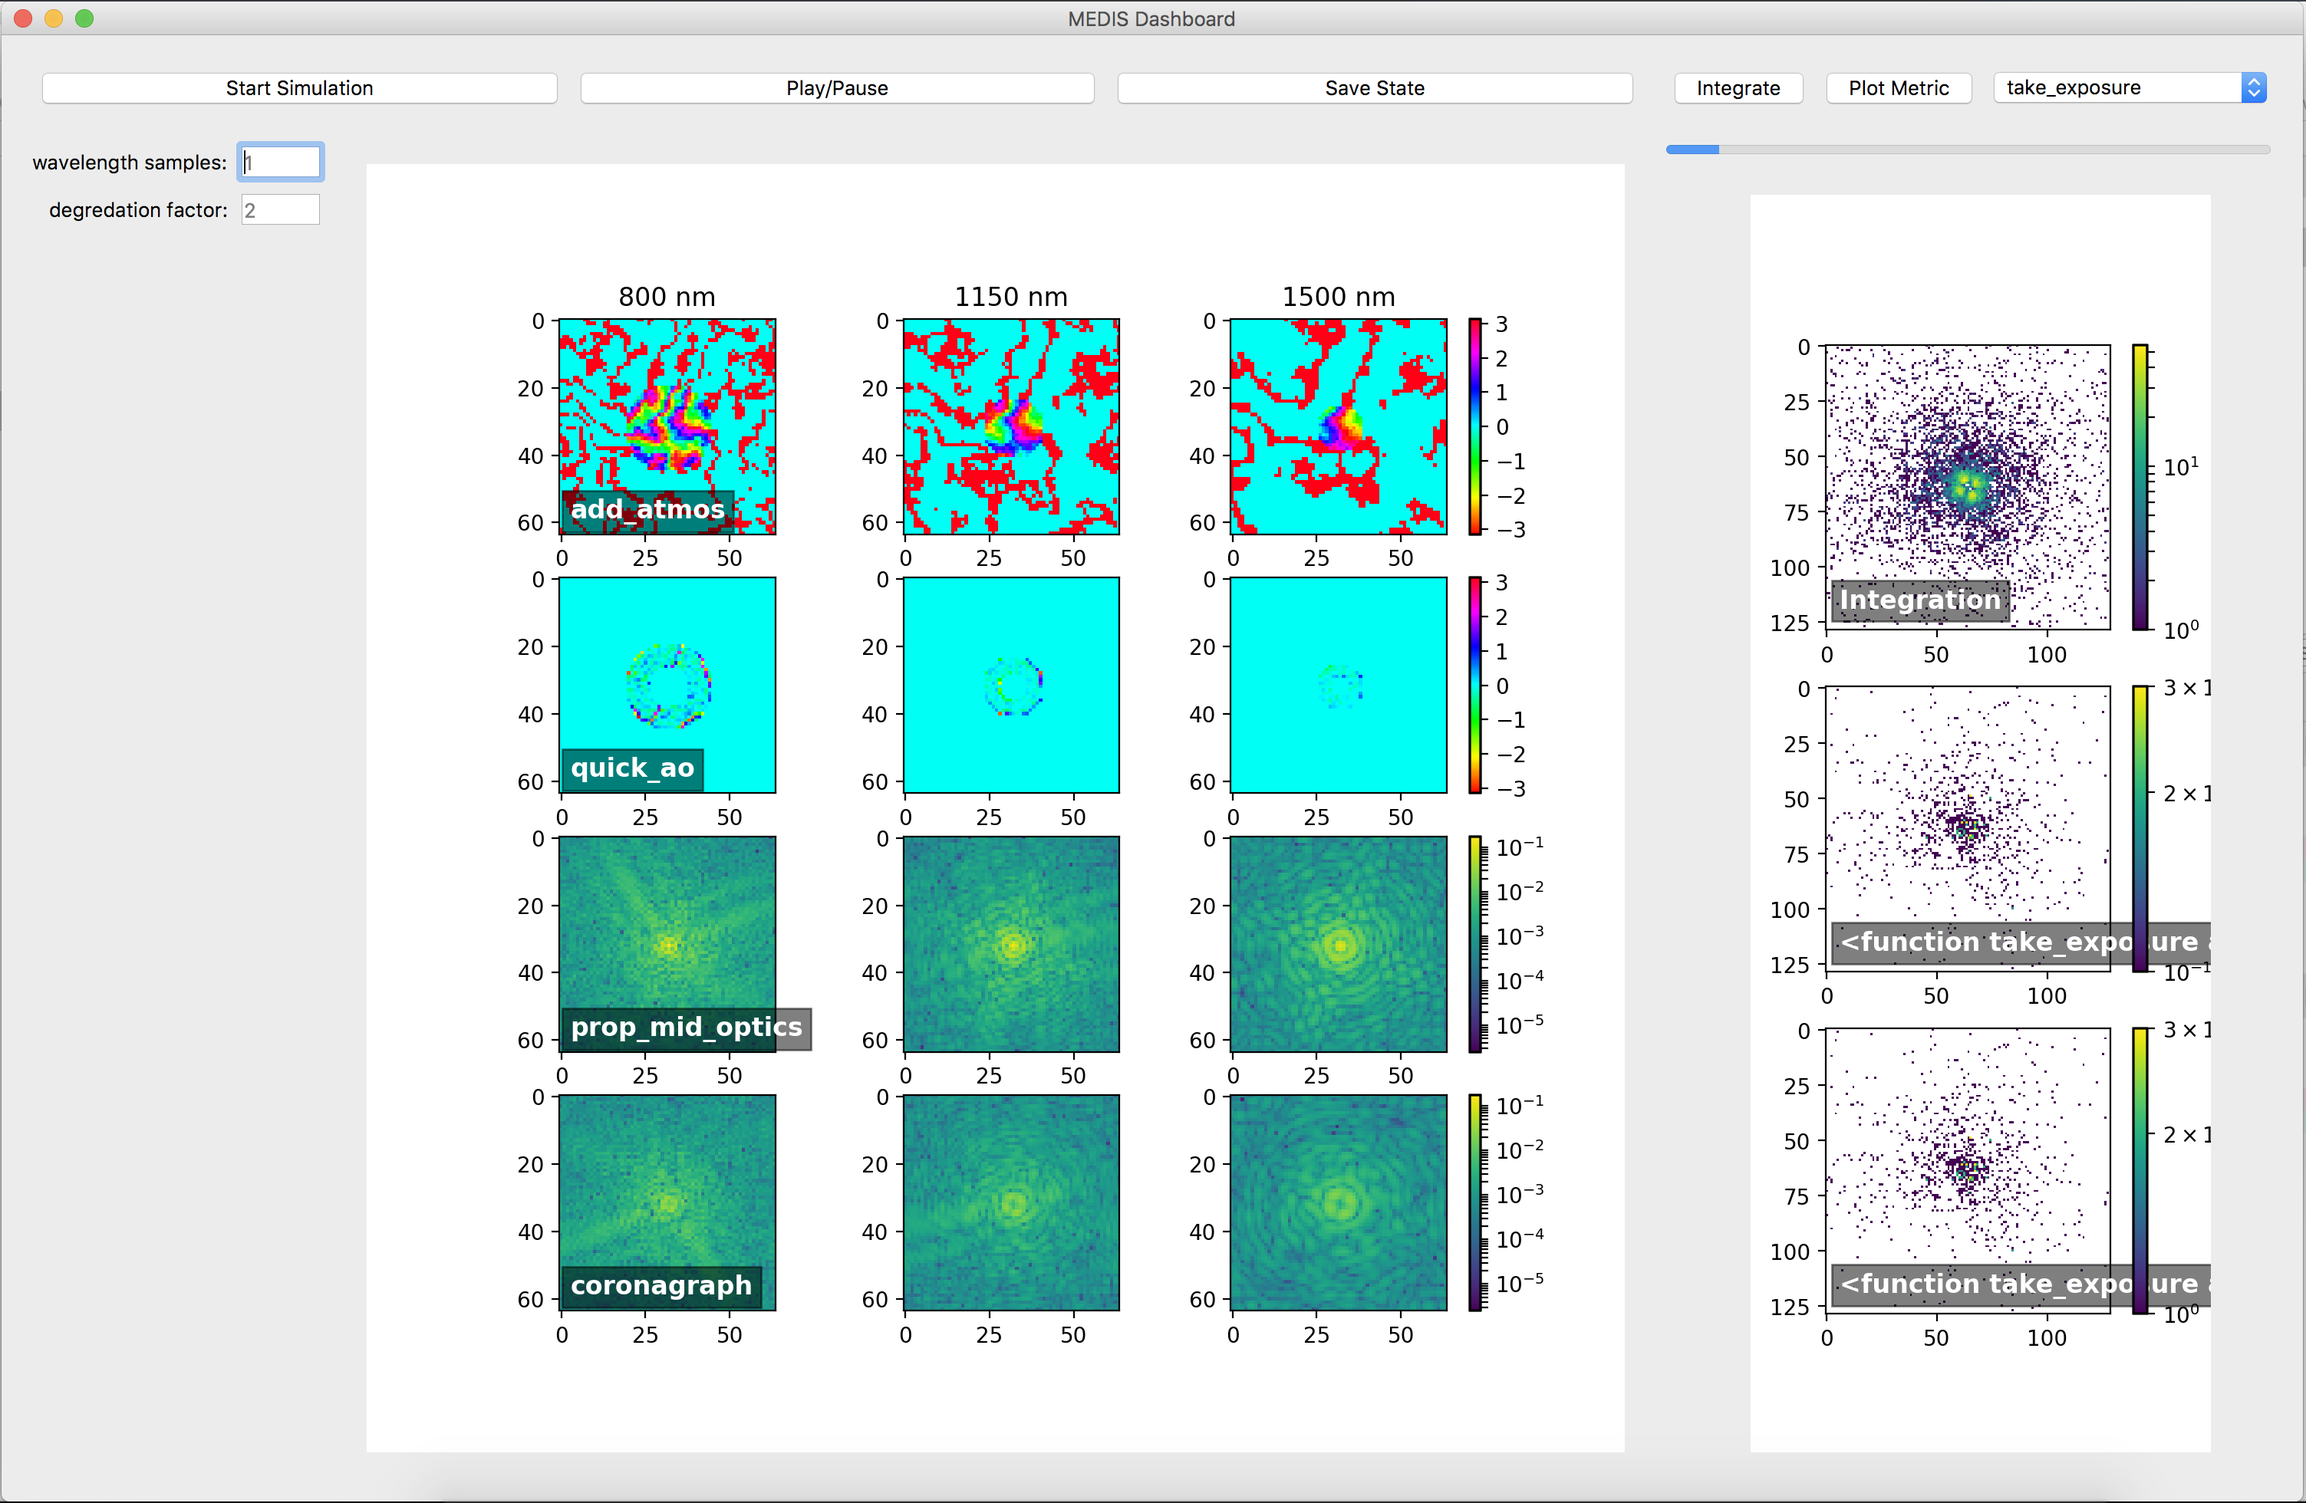
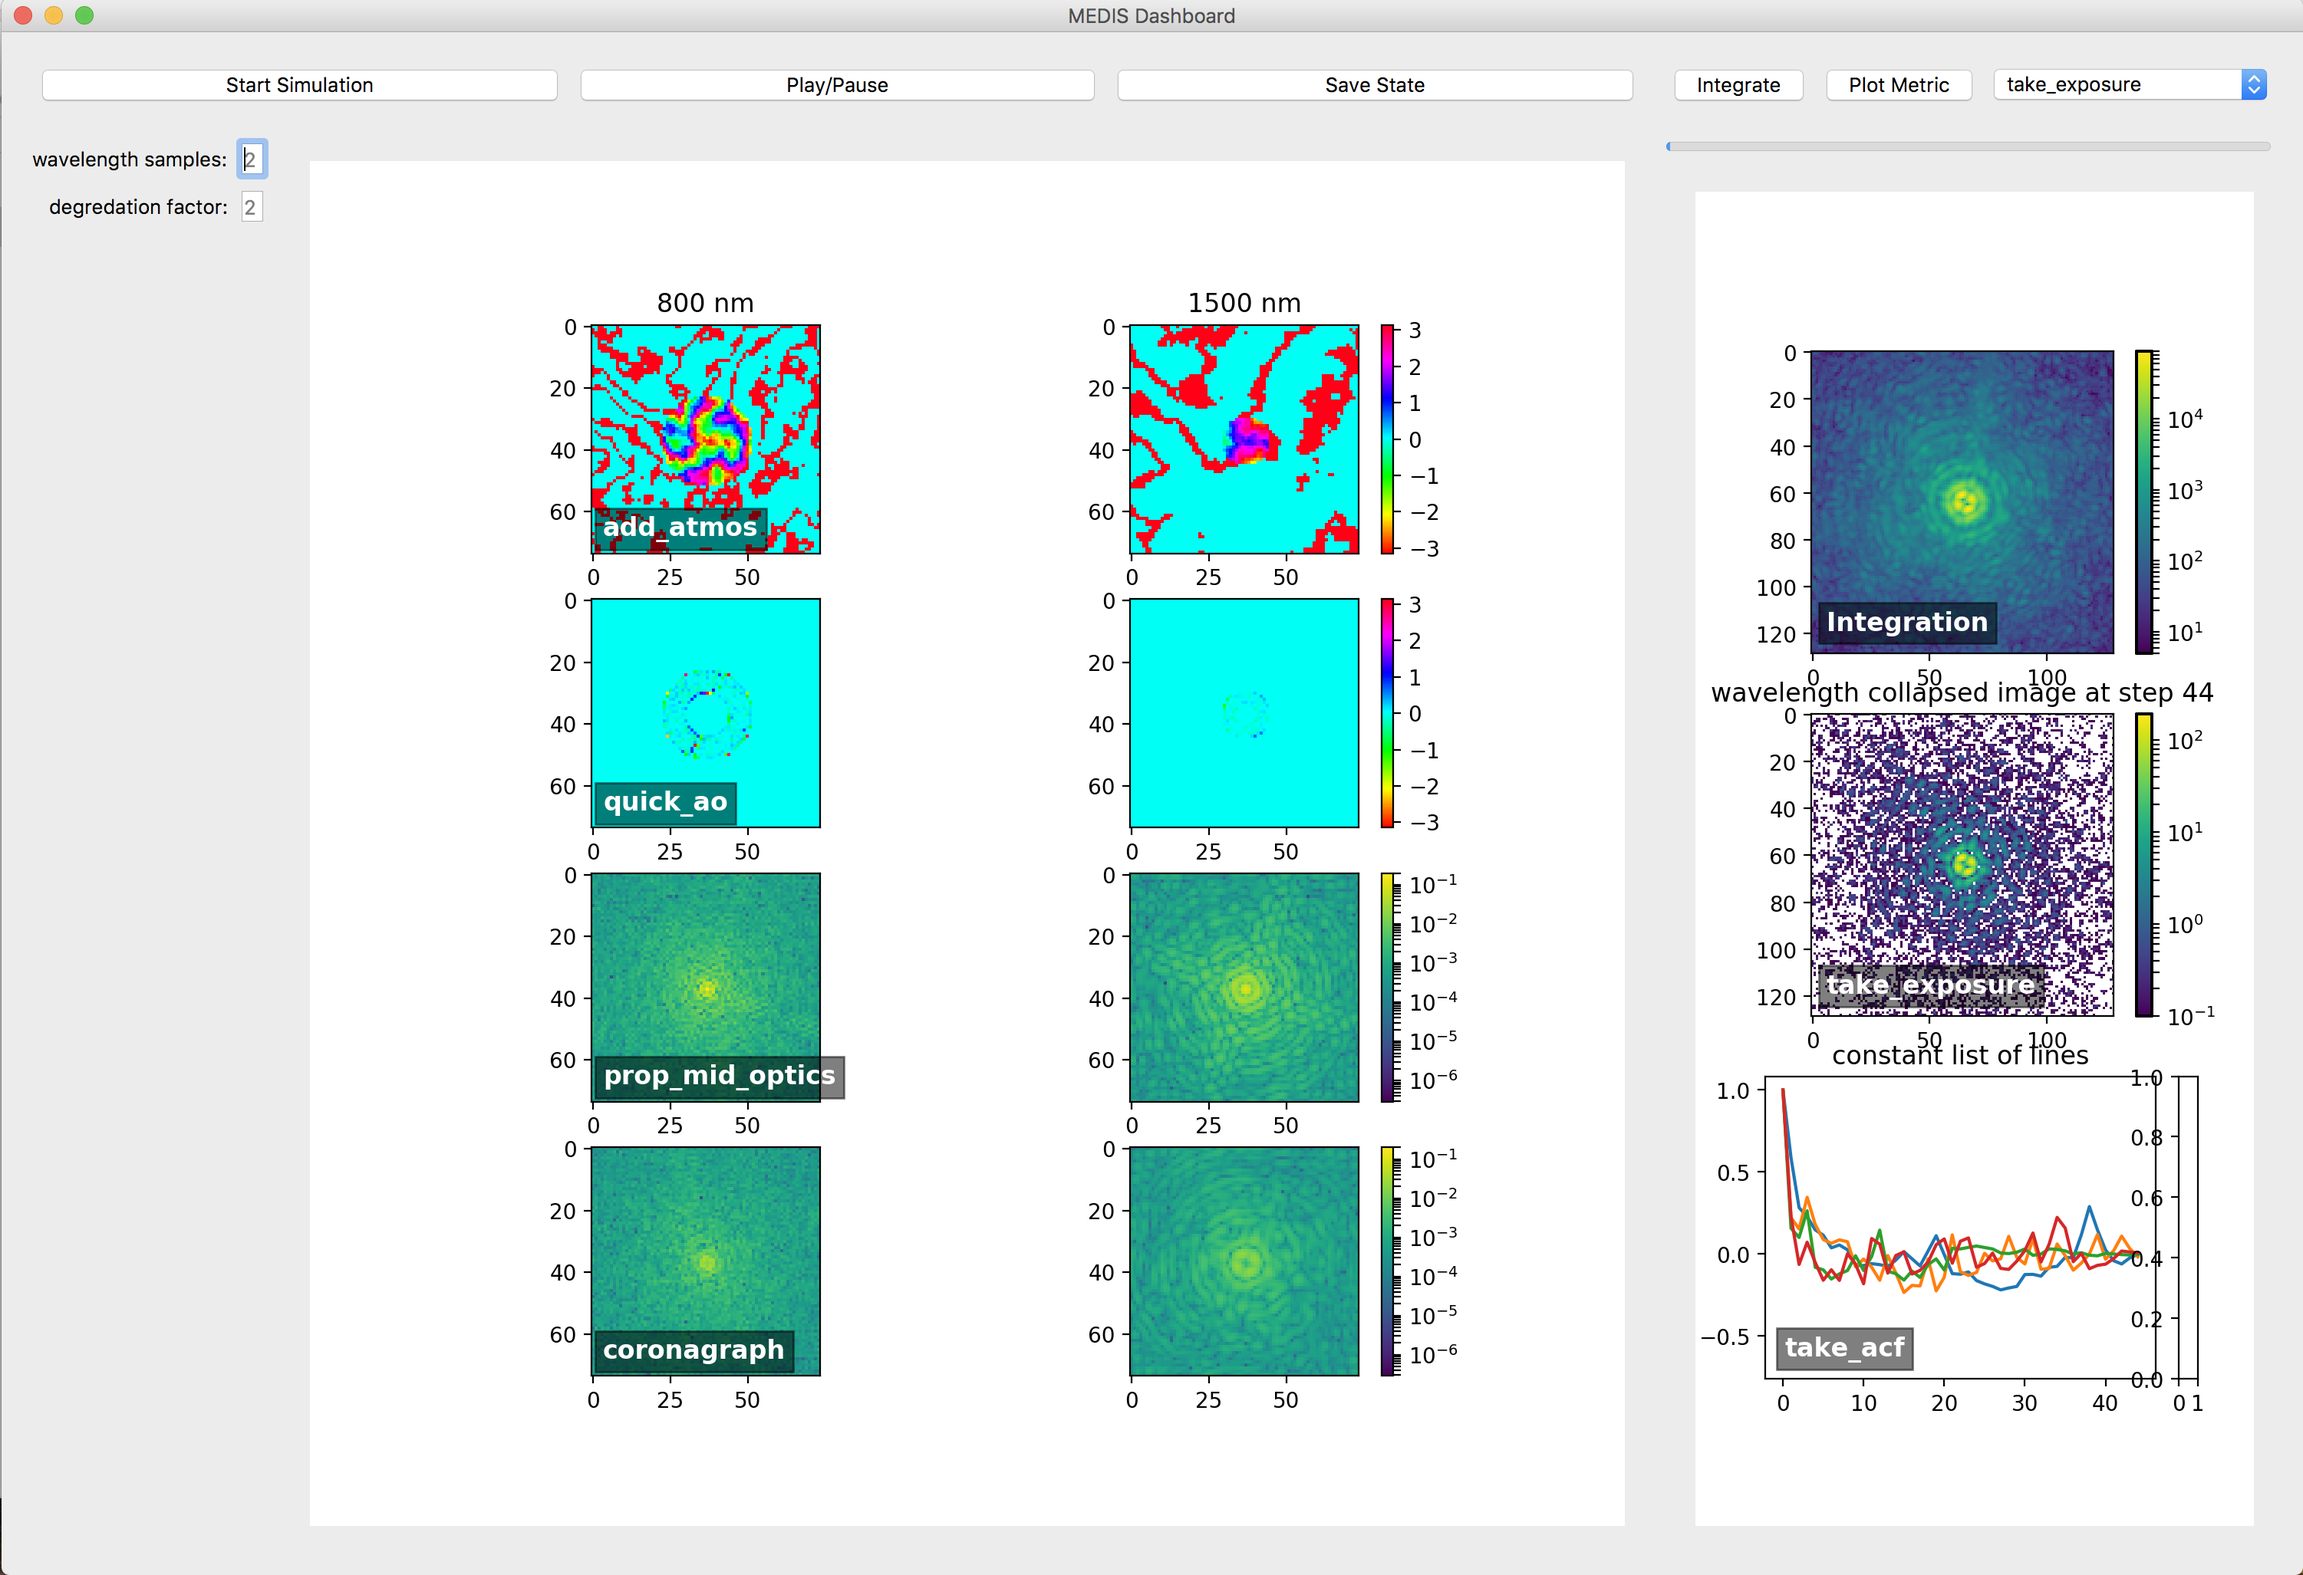
GUI now takes and plots functions with a variety of output formats to analyse the 4D cube of photon data at the detector. See GUI screenshots in examples

diff --git a/medis/Dashboard/architecture.py b/medis/Dashboard/architecture.py
@@ -1,3 +1,4 @@
+import sys
 import numpy as np
 
 from matplotlib.colors import LogNorm, SymLogNorm
@@ -5,6 +6,7 @@ from matplotlib.backends.backend_qt5agg import FigureCanvasQTAgg
 from matplotlib.figure import Figure
 from matplotlib import gridspec
 from mpl_toolkits.axes_grid1 import make_axes_locatable
+from matplotlib.image import AxesImage
 
 from functools import partial
 
@@ -24,7 +26,7 @@ class MatplotlibWidget(QWidget):
         super(MatplotlibWidget, self).__init__(parent)
 
         self.nrows, self.ncols = nrows, ncols
-        self.figure = Figure(figsize=(3*ncols,3*nrows))
+        self.figure = Figure(figsize=(5*ncols,3*nrows))
         self.canvas = FigureCanvasQTAgg(self.figure)
 
         gs = gridspec.GridSpec(self.nrows, self.ncols)
@@ -42,6 +44,8 @@ class MatplotlibWidget(QWidget):
         self.layoutVertical = QFormLayout(self)
         self.layoutVertical.addWidget(self.canvas)
 
+        self.ims = np.empty((self.nrows, self.ncols), dtype=AxesImage)
+
     def add_Efield_annotations(self):
         wsamples = np.linspace(ap.band[0], ap.band[1], ap.nwsamp).astype(int)
         for c in range(self.ncols):
@@ -57,7 +61,7 @@ class MatplotlibWidget(QWidget):
                              fontweight='bold', color='w',
                              fontsize=12, bbox=props)
         for r in range(self.nrows-1):
-            self.axes[r+1, 0].text(0.05, 0.075, sp.metric_funcs[r], transform=self.axes[r+1, 0].transAxes,
+            self.axes[r+1, 0].text(0.05, 0.075, sp.metric_funcs[r].__name__, transform=self.axes[r+1, 0].transAxes,
                                  fontweight='bold', color='w',
                                  fontsize=12, bbox=props)
 
@@ -205,10 +209,15 @@ class MyWindow(QWidget):
         for x in range(self.rows):
             for y in range(self.cols):
                 # self.EmapsGrid.axes[x, y].cla()
-                im = self.EmapsGrid.axes[x, y].imshow(gui_images[x,y,0,::2,::2], norm=norm[x],
+                try:
+                    self.EmapsGrid.ims[x,y].remove()
+                except AttributeError:
+                    True
+                self.EmapsGrid.ims[x,y] = self.EmapsGrid.axes[x, y].imshow(gui_images[x,y,0,::2,::2], norm=norm[x],
                                                      vmin=vmin[x], vmax=vmax[x], cmap=cmap[x])
 
-            self.EmapsGrid.figure.colorbar(im, cax=self.EmapsGrid.cax[x], orientation='vertical')
+
+            self.EmapsGrid.figure.colorbar(self.EmapsGrid.ims[x,-1], cax=self.EmapsGrid.cax[x], orientation='vertical')
 
         self.EmapsGrid.canvas.draw()
         del gui_images
@@ -227,17 +236,73 @@ class MyWindow(QWidget):
         self.EfieldsThread.sct.integration += spectralcube
         self.EfieldsThread.sct.obs_sequence[it] = spectralcube
 
+        try:
+            self.metricsGrid.ims[0,0].remove()
+        except AttributeError:
+            True
+
         # self.metricsGrid.axes[0,0].cla()
-        im = self.metricsGrid.axes[0,0].imshow(np.sum(self.EfieldsThread.sct.integration, axis=0), norm=LogNorm())
-        self.metricsGrid.figure.colorbar(im, cax=self.metricsGrid.cax[0], orientation='vertical')
+        print(type(self.metricsGrid.ims[0,0]))
+        self.metricsGrid.ims[0,0] = self.metricsGrid.axes[0,0].imshow(np.sum(self.EfieldsThread.sct.integration,
+                                                                             axis=0),
+                                                                      norm=LogNorm())
+        self.metricsGrid.figure.colorbar(self.metricsGrid.ims[0,0], cax=self.metricsGrid.cax[0],
+                                         orientation='vertical')
 
         for r, (func, args) in enumerate(zip(sp.metric_funcs, sp.metric_args)):
+            import traceback
             # self.metricsGrid.axes[r+1,0].cla()
-            f = partial(func, args)
-            metric = f(self.EfieldsThread.sct.obs_sequence[:it])
+            from medis.Utils.misc import dprint
+            dprint((type(self.metricsGrid.ims[r + 1, 0]), type(self.metricsGrid.ims[r + 1, 0]) == list))
+            try:
+                if type(self.metricsGrid.ims[r+1, 0]) == list:
+                    for im in self.metricsGrid.ims[r + 1, 0]:
+                        im[0].remove()
+                    # self.metricsGrid.axes[r + 1, 0].cla()
+                    # self.metricsGrid.add_metric_annotations()
+                else:
+                    self.metricsGrid.ims[r+1, 0].remove()
+            except (KeyboardInterrupt, SystemExit):
+                raise
+            except:
+                traceback.print_exc()
+            dprint(type(self.metricsGrid.ims[r + 1, 0]) == list)
 
-            im = self.metricsGrid.axes[r+1, 0].imshow(metric[it-1, 0], norm=LogNorm())
-            self.metricsGrid.figure.colorbar(im, cax=self.metricsGrid.cax[r+1], orientation='vertical')
+            metric = func(self.EfieldsThread.sct.obs_sequence[:it], args)
+
+            dims = len(np.shape(metric))
+            if dims == 4:
+                self.metricsGrid.ims[r+1,0] = self.metricsGrid.axes[r+1, 0].imshow(np.sum(metric[it-1], axis=0), norm=LogNorm())
+                self.metricsGrid.figure.colorbar(self.metricsGrid.ims[r+1,0], cax=self.metricsGrid.cax[r+1],
+                                                 orientation='vertical')
+                self.metricsGrid.axes[r + 1, 0].set_title(f'wavelength collapsed image at step {it-1}')
+            elif dims == 3 and metric.shape[0] == ap.nwsamp:
+                self.metricsGrid.ims[r+1,0] = self.metricsGrid.axes[r+1, 0].imshow(np.sum(metric, axis=0), norm=LogNorm())
+                self.metricsGrid.figure.colorbar(self.metricsGrid.ims[r+1,0], cax=self.metricsGrid.cax[r+1],
+                                                 orientation='vertical')
+                self.metricsGrid.axes[r + 1, 0].set_title(f'wavelength collapsed image')
+            elif dims == 3 and metric.shape[0] == ap.numframes:
+                self.metricsGrid.ims[r+1,0] = self.metricsGrid.axes[r+1, 0].imshow(metric[it-1], norm=LogNorm())
+                self.metricsGrid.figure.colorbar(self.metricsGrid.ims[r+1,0], cax=self.metricsGrid.cax[r+1],
+                                                 orientation='vertical')
+                self.metricsGrid.axes[r + 1, 0].set_title(f'monochromatic image at step {it - 1}')
+            elif dims == 2 and type(metric) is np.ndarray:
+                self.metricsGrid.ims[r+1, 0] = self.metricsGrid.axes[r+1, 0].imshow(metric, norm=LogNorm())
+                self.metricsGrid.figure.colorbar(self.metricsGrid.ims[r+1,0], cax=self.metricsGrid.cax[r+1],
+                                                 orientation='vertical')
+                self.metricsGrid.axes[r + 1, 0].set_title(f'constant monochromatic image')
+            elif dims == 2 and type(metric) is list:
+                self.metricsGrid.ims[r + 1, 0] = []
+                colors = ['#1f77b4', '#ff7f0e', '#2ca02c', '#d62728',
+                              '#9467bd', '#8c564b', '#e377c2', '#7f7f7f',
+                              '#bcbd22', '#17becf']
+                for i in range(len(metric)):
+                    self.metricsGrid.ims[r + 1, 0].append(self.metricsGrid.axes[r + 1, 0].plot(metric[i], c=colors[i]))
+                self.metricsGrid.axes[r + 1, 0].set_title(f'constant list of lines')
+            elif dims == 1:
+                self.metricsGrid.ims[r + 1, 0] = self.metricsGrid.axes[r + 1, 0].plot(metric)
+            else:
+                print(f"metric from {func} with shape {np.shape(metric)} cannot be plotted")
 
         self.metricsGrid.canvas.draw()
         del it, spectralcube

diff --git a/examples/realtime_demo.py b/examples/realtime_demo.py
@@ -1,43 +1,40 @@
 import numpy as np
 from PyQt5 import QtWidgets
-# from statsmodels.tsa.stattools import acf
+from statsmodels.tsa.stattools import acf
 # from vip_hci import phot, pca
-import medis.Detector.readout as read
-from medis.params import iop, sp, cp, ap, tp
-from functools import partial
-
-# # generic function takes op and its argument
-# def runOp(op, val):
-#     return op(val)
-#
-# # declare full function
-# def take_exposure(obs_sequence, exp_time):
-#     downsample_cube = obs_sequence * exp_time
-#     return downsample_cube
-#
-# # run example
-# def main():
-#     funcs = [take_exposure, take_exposure]
-#     args = [0.1, 1]
-#     for func, arg in zip(funcs, args):
-#         f = partial(func, arg)
-#         result = runOp(f, 1) # is 4
-#         print(result)
-#
-# main()
+# from matplotlib.pylab import plt
+from medis.params import sp, ap, tp
+from medis.Utils.misc import dprint
 
 def take_exposure(obs_sequence, exp_time):
     downsample_cube = obs_sequence * exp_time
     return downsample_cube
 
+def take_acf(obs_sequence, locs=None):
+    if locs is None:
+        locs = [73, 85, 105, 120]
+
+    corrs = []
+    if len(obs_sequence) > 2:
+        for y in locs:
+            corr, ljb, pvalue = acf(obs_sequence[:, 0, 73, y], unbiased=False, qstat=True, nlags=len(range(ap.numframes)))
+            corrs.append(corr)
+    else:
+        corrs = np.empty((len(locs)))
+        corrs[:] = np.nan
+
+    return corrs
+
+
 sp.use_gui = True
 sp.show_cube = False
 sp.save_locs = np.array([['add_atmos','phase'], ['quick_ao','phase'], ['prop_mid_optics','amp'], ['coronagraph','amp']])
-sp.metric_funcs = [take_exposure, take_exposure]
-sp.metric_args = [0.1, 1]
+sp.metric_funcs = [take_exposure, take_acf]
+sp.metric_args = [0.1, [73, 85, 105, 120]]
 ap.nwsamp = 1
+ap.grid_size = 148
 ap.companion = False
-# ap.star_photons = 1e3
+ap.star_photons = 1e8
 
 
 tp.detector = 'MKIDs'
